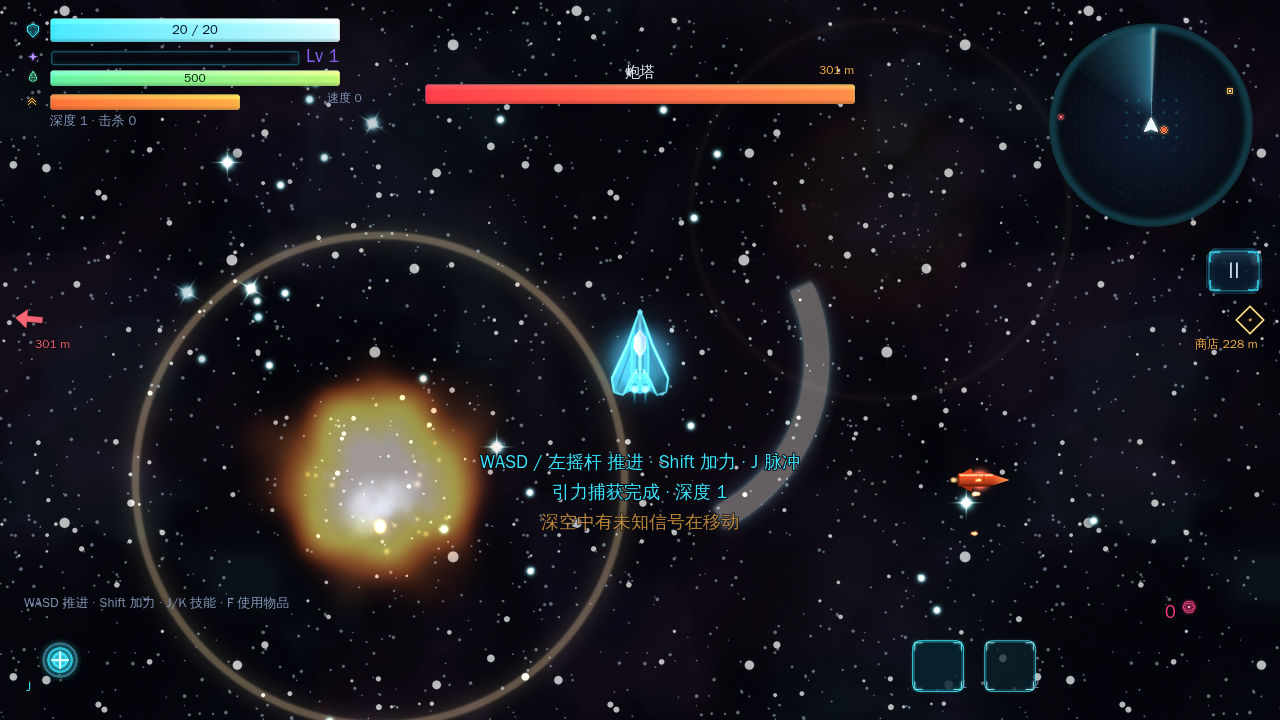
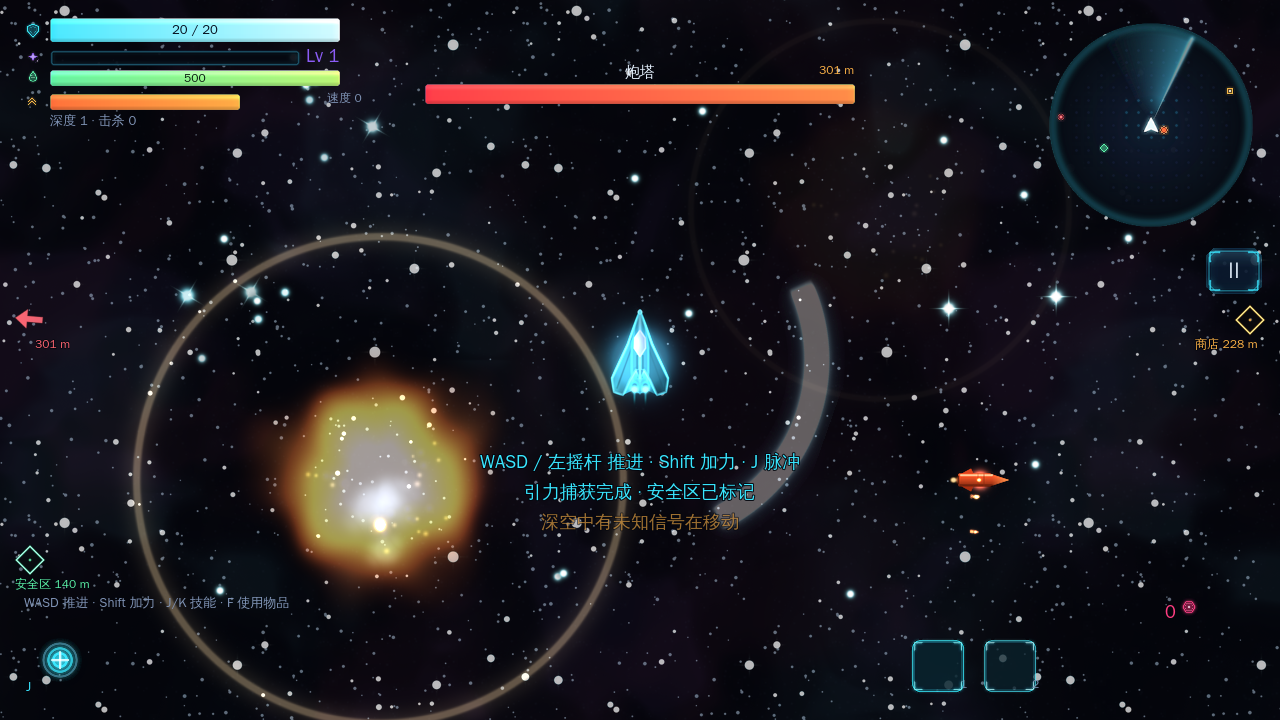
docs(1.0.7): 验证记录、截图与 OpenList 直链

diff --git a/README.md b/README.md
@@ -1,4 +1,4 @@
-# Escape Gravity · 1.0.6 发行版
+# Escape Gravity · 1.0.7 发行版
 
 > 2D 俯视角 · 物理驱动 · 无直接攻击的太空肉鸽
 >
@@ -14,6 +14,12 @@
 - 中文字体：WenQuanYi Zen Hei（随包分发，见许可）
 
 > **仓库状态**：本目录为本地 Git 仓库（`main`，未配置 remote，暂未发布）。`build/`、`dist/`、`keystore/` 与 `.godot/` 不入库；维护、构建与提交约定见 [`AGENTS.md`](AGENTS.md)。
+
+### 1.0.7 更新
+
+- **开局就有第一个安全区**：`_initial_spawn` 现在会在出生点前方生成路线首段的安全区（雷达绿点 + 屏幕边缘绿色方位标记），一进游戏就有明确的补给目的地；不再需要击毁首个攻击者后才解锁。首个安全区与飞船保持 640px 以上（不会一开局就把玩家吸走），并与首个敌人保持完整的 1220px 间距。
+- **安全区刷新不会落在身后**：离开安全区 10 秒后刷新时，如果路线预置点已落在飞船后方 300px 之外、或超出 50 燃料距离（1875px），会在行进方向前方 900~1755px 重新选址。高速冲刺、连续越过几个路段也不会再出现“安全区在身后、雷达上找不到”的情况。
+- **敌人落点让位更稳**：首个敌人先于商店生成，由商店让开敌人；被安全区/商店挤到时沿径向滑出必要距离，而不是让环形搜索把敌人跳到约 900px 外。
 
 ### 1.0.6 更新
 
@@ -65,24 +71,24 @@
 
 | 文件 | 平台 | 大小 | SHA-256 |
 |---|---|---|---|
-| `dist/EscapeGravity-1.0.6-windows-x86_64.zip` | Windows 10/11 x64 | 57.4 MiB | `10eb39e2…bc28f816` |
-| `dist/EscapeGravity-1.0.6-android-arm64.apk` | Android 7.0+ arm64 | 47.3 MiB | `41235128…a54c7637` |
-| `dist/EscapeGravity-1.0.6-linux-x86_64.tar.gz` | Linux x64（附带） | 48.2 MiB | `3a23bba2…030c74e6` |
-| `build/windows/EscapeGravity.exe` | 未压缩的 Windows 单文件 | 125.9 MiB | `f06d8039…ba0eb720` |
-| `build/android/EscapeGravity.apk` | 未重命名的 Android 包 | 47.3 MiB | `41235128…a54c7637` |
+| `dist/EscapeGravity-1.0.7-windows-x86_64.zip` | Windows 10/11 x64 | 57.4 MiB | `33505883…b31fbfde` |
+| `dist/EscapeGravity-1.0.7-android-arm64.apk` | Android 7.0+ arm64 | 47.3 MiB | `e734c5a7…83fb2260` |
+| `dist/EscapeGravity-1.0.7-linux-x86_64.tar.gz` | Linux x64（附带） | 48.2 MiB | `6b8a807b…d34f6e17` |
+| `build/windows/EscapeGravity.exe` | 未压缩的 Windows 单文件 | 125.9 MiB | `9aac34ce…d1f5fb67` |
+| `build/android/EscapeGravity.apk` | 未重命名的 Android 包 | 47.3 MiB | `e734c5a7…83fb2260` |
 | `docs/shots/*.png` | 由**导出包**实际运行的截图 | — | — |
 
 完整校验和：`dist/SHA256SUMS.txt`。
 
-- Android 1.0.6 直链：[EscapeGravity-1.0.6-android-arm64.apk](https://files.thisisxd.top/d/EscapeGravity-1.0.6-android-arm64.apk?v=9)
+- Android 1.0.7 直链：[EscapeGravity-1.0.7-android-arm64.apk](https://files.thisisxd.top/d/EscapeGravity-1.0.7-android-arm64.apk?v=10)
 
-> 下表是本次 1.0.6 重新构建的交付包，`build/` 与 `dist/` 均来自同一次构建。
+> 下表是本次 1.0.7 重新构建的交付包，`build/` 与 `dist/` 均来自同一次构建。
 
 Windows 包为单文件 exe（内嵌 PCK），解压即玩，无需安装。Android 包已用项目自带密钥签名（v2/v3），可直接侧载安装。
 
 本版不再提供 Web 试玩包；正式交付为 Windows / Android 原生构建。
 
-- Android 包名：`com.escapegravity.game`，versionCode 9，versionName 1.0.6
+- Android 包名：`com.escapegravity.game`，versionCode 10，versionName 1.0.7
 - minSdk 24 / targetSdk 36（Godot 4.7 模板），仅 arm64-v8a
 - Windows 构建未做商业代码签名：首次运行可能出现 SmartScreen 提示，选择“仍要运行”即可
 
@@ -114,7 +120,7 @@ Windows 包为单文件 exe（内嵌 PCK），解压即玩，无需安装。Andr
 2. 你打不到炮塔。唯一能伤到它的，是**它自己的导弹**：贴着炮塔绕圈，让导弹的转弯弧线切进外壳；或者用脉冲把导弹沿切线甩进外壳。
 3. 导弹撞上炮塔：**25 点伤害** + 炮塔过载停火 2.5 秒；炮塔血量 50，两发即可摧毁。
 4. 炮塔爆炸后掉落大量**物质**，正常接近会自动吸收并填经验槽。每 **20 XP** 升一级，三选一强化。即使你以高速从物质旁掠过或正在远离，牵引场也会追上并把它吸收，不会再出现物质被甩飞的情况。
-5. 燃料有限，而且**出生点附近没有安全区**——先击毁首个攻击者才会解锁补给。**安全区**会补满燃料、清除导弹与陨石、屏蔽雷达与威胁指示；它刷新时只是一个比飞船略大的小环，飞到中心才扩张成完整的补给圈。即使高速切线掠过、从边缘滑过，安全区也会持续牵引并拖慢你，把你拉回 R280 内停靠，不再会被甩飞；明确朝圈外推进时可以脱离。**商店**用代币换道具；如果跳过商店并连续击毁两个敌人，信标会自动重新定位。地图生成时会沿一条隐藏路线预置它们的位置：安全区在两个敌人之间，商店离路线更远；路线本身不显示给玩家。两个敌人之间的空白路径有时会生成一颗小**加速天体**，可以借它做切线环绕。
+5. 燃料有限，但**开局前方就有一个安全区**（绿色方位标记）；进入后会补满燃料并清除威胁，离开 10 秒后刷新下一个。**安全区**会补满燃料、清除导弹与陨石、屏蔽雷达与威胁指示；它刷新时只是一个比飞船略大的小环，飞到中心才扩张成完整的补给圈。即使高速切线掠过、从边缘滑过，安全区也会持续牵引并拖慢你，把你拉回 R280 内停靠，不再会被甩飞；明确朝圈外推进时可以脱离。**商店**用代币换道具；如果跳过商店并连续击毁两个敌人，信标会自动重新定位。地图生成时会沿一条隐藏路线预置它们的位置：安全区在两个敌人之间，商店离路线更远；路线本身不显示给玩家。两个敌人之间的空白路径有时会生成一颗小**加速天体**，可以借它做切线环绕。
 6. 摧毁一个攻击者后进入 **8 秒安全时间**，随后按路线顺序刷新更强的敌人；深度递增。
 
 护盾只有 **20**，而敌方导弹伤害是 **25**：**挨一发就结束**。陨石只磨损 0.5，但你可以把陨石撞飞，让它对敌人造成 5 点伤害。
@@ -162,10 +168,10 @@ Windows 包为单文件 exe（内嵌 PCK），解压即玩，无需安装。Andr
 | 陨石：10s/颗、R17、110~210 速度、镜头外 900 进入、方向避开炮塔、受天体与飞船引力、0.5 伤害、撞飞后对敌人 5 伤害 | `src/meteor.gd` + `run`；撞飞船不会立刻消失，可继续飞行撞敌人 |
 | 物质：200/星域、吸取 240、小 1 XP / 大 3 XP、每 20 XP 升级；靠近即吸收 | `src/matter.gd`；牵引速度上限 900、4s 牵引锁定、28px 拾取；初始与补充刷在未探索区，总数上限 280 |
 | 护盾 20 / 敌方导弹 25；陨石 0.5 | `src/ship.gd` + `run.hurt_ship` |
-| 出生区：没有安全区，首个攻击者就在路线首段；击毁首个攻击者后解锁补给 | `run._initial_spawn` / `_unlock_safe_after_first_kill`；解锁时跳过出生侧的安全区节点，`route.next_safe=1` |
+| 出生区：开局生成第一个安全区，首个攻击者仍在路线首段 | `run._initial_spawn`：先建安全区，再生成敌人，最后放商店；首个安全区与敌人保持 1220px 间距，离开后 10 秒刷新下一个 |
 | 安全区：进入前 R78 → 进入时扩张到 R280、向心牵引、回满燃料/清导弹/清陨石/隐藏雷达与威胁指示、离开后 10s 刷新 | `src/zone.gd` + `run._zone_checks`；进入瞬间触发半径即为 280；外圈持续 120 px/s² 向心牵引并制动外向/切向速度，高速掠过也会被拉回；进入后 1400 px/s² 停靠，圈内抵消天体引力 |
 | 安全区吸附：高速切线/边缘掠过仍会被拉回停靠 | `run.assist_accel` 在 700px 影响圈内持续向心牵引，并制动外向径向与切向速度；玩家明确朝圈外推进时放开；进圈后由 1400 px/s² 反推停靠 |
-| 安全区刷新在路线预置点 | `RunRoute.safe_at`：每个敌人之间一个；找不到路线时回退 `find_unexplored_point(700, 1875)` |
+| 安全区刷新在路线预置点 | `RunRoute.safe_at`：每个敌人之间一个；预置点在身后 300px 外或超出 1875px 时，改在行进方向前方 900~1755px 重新选址 |
 | 商店：R280、不回燃料、代币交易；绑定创建时的敌人深度 | `run._open_shop` / `buy_offer`；3 件商品，价格按稀有度；位置取路线预置点，离路线比安全区更远 |
 | 商店自动重定位 | 跳过商店并连续击毁所属敌人和下一个敌人（`depth > shop_bound_depth+1`）时，`_maybe_refresh_shop` 在下一个路线商店点重新生成 |
 | 燃料耗尽：仍可惯性/引力移动；屏幕内有安全区则被吸入；否则 12s 后结束 | `run._check_fuel` + `assist_accel` |
@@ -245,7 +251,7 @@ escape-gravity-release/
 │   ├── meteor.gd / matter.gd / zone.gd / decoy.gd / anchor.gd / fx.gd
 │   ├── assets.gd / audio.gd / store.gd / controls.gd
 │   ├── backdrop.gd           # 视差星云/星点
-│   └── selftest.gd           # 136 项无头断言 + 机器人可玩性验证
+│   └── selftest.gd           # 140 项无头断言 + 机器人可玩性验证
 ├── assets/                   # world / ui / audio / fonts
 ├── tools/                    # 素材生成、后期、构建、打包
 ├── docs/                     # ART.md / DESIGN_MAP.md / QA.md / 资产清单 / 截图
@@ -265,17 +271,17 @@ escape-gravity-release/
 
 ## 5. 验证
 
-### 5.1 无头断言（136/136 通过）
+### 5.1 无头断言（140/140 通过）
 
 ```bash
 godot --headless --path . -- --selftest
-# RESULT: 136 checks, 0 failed
+# RESULT: 140 checks, 0 failed
 ```
 
 覆盖：太空无阻力与惯性保持 / 引擎极速 150、加力 3× 与 192、外部上限 720 / 燃料按实际 Δv（滑行免费，到极速后按住推进不耗油）/ 加力槽 6.6s 与推进中回充 / 引力 285·395·3R 截止 /
 辅助装置平衡恒星引力 / 锁定中的导弹仍受引力弯折 /
 导弹 150·0.525·5s 脱锁 / 命中 25 与过载 / 陨石 0.5 与撞飞 5 / 物质 240 与 1·3 XP / 高速远离仍被追上吸收 / 20 XP 升级 /
-安全区 78→280 扩张·补满·清弹·隐藏·10s 刷新 / 高速切线掠过仍被吸入·径向高速仍能停靠 / 商店 3 件且不回燃料·跳过两级后自动重定位 / 出生区无安全区·首杀解锁并跳过出生侧节点 / 物品栏 2→5 与满栏销毁 / 脉冲 10 燃料·200 冲量·5s CD·按移动方向左右偏转 /
+安全区 78→280 扩张·补满·清弹·隐藏·10s 刷新 / 高速切线掠过仍被吸入·径向高速仍能停靠 / 商店 3 件且不回燃料·跳过两级后自动重定位 / 开局安全区·高速越过后刷新仍在可达范围与前方 / 物品栏 2→5 与满栏销毁 / 脉冲 10 燃料·200 冲量·5s CD·按移动方向左右偏转 /
 诱饵抵达脱锁 / 干扰弹偏转 / 燃料 12s 判负 / 复活币 / 路线不回头·商店更远·每段有天体·两个敌人间有安全区·安全区离敌人≥1150 / 空白路径加速天体数量与间距 /
 敌人未发现时不可见、仇恨范围外不开火、靠近后逼近 / 未发现时仍开火且导弹从屏幕外弧线切入·方向偏向敌人·单独上限 2 / 进屏即发现并淡入 /
 起始区域按路线落位 / 敌人按路线顺序刷新 / 120000px 外仍有天体 / 初始燃料 500。
@@ -295,11 +301,11 @@ godot --headless --path . -- --selftest
 
 ### 5.3 导出包验证
 
-> 本次 1.0.6 重新导出了 Linux / Windows / Android 包并重打了 `dist/`，下方验证均针对这批产物。
+> 本次 1.0.7 重新导出了 Linux / Windows / Android 包并重打了 `dist/`，下方验证均针对这批产物。
 
 - Linux 导出包在 `Xvfb + llvmpipe` 下真实运行并重新生成全部 11 张截图（不是编辑器截图），中文字体、脚本、贴图、音频均从 PCK 加载。
 - Windows 产物：`PE32+ executable (GUI), x86-64`，尾部 `GDPC` 内嵌包标记，单文件无外部依赖。
-- Android：`apksigner verify` 通过（v2 + v3 签名）；`aapt2 dump badging` 显示 `com.escapegravity.game`、1.0.6（versionCode 9）、
+- Android：`apksigner verify` 通过（v2 + v3 签名）；`aapt2 dump badging` 显示 `com.escapegravity.game`、1.0.7（versionCode 10）、
   minSdk 24、targetSdk 36、`native-code: arm64-v8a`、landscape、无危险权限；APK 内含全部贴图/字体/音频/脚本。
 
 ### 5.4 界面
@@ -332,7 +338,7 @@ godot --headless --path . -- --selftest
 9. **美术/音频为占位素材**：这是你要求的“先用几何图形”；但已按可替换资产管线实现，后续换图不需要改逻辑。
 10. **Android 仅 arm64**，且没有真机实测（本机无 Android 设备；APK 已做静态与签名验证，Linux 导出包做了真实运行验证）。
 11. 安全区/商店刷新距离、商店重开时间（26s）等文档未给定的细节由本实现确定，见 `DESIGN_MAP.md`。
-12. 1.0.6 的安全区/物质修复不是新增类型：安全区持续牵引并制动外向/切向速度，物质牵引速度高于飞船上限并保留 4 秒锁定；数值集中在 `src/consts.gd`。商店随战线重定位与空白路径加速天体（42% 尝试）是发行版扩展，并有自测覆盖。
+12. 1.0.7 恢复“开局即有安全区”，并给安全区刷新加了可达性回退；1.0.6 的持续牵引/制动物理与物质 4 秒牵引锁定保留，数值集中在 `src/consts.gd`。商店随战线重定位与空白路径加速天体（42% 尝试）是发行版扩展，并有自测覆盖。
 
 ---
 

diff --git a/docs/DESIGN_MAP.md b/docs/DESIGN_MAP.md
@@ -13,7 +13,7 @@
 | 进入区域 → 攻击者出现 → 追踪导弹 → 诱导撞击 → 过载 → 掉落物质 | `spawn_enemy` → `enemy.step` → `missile.step` → `_resolve_collisions` → `damage_enemy` → `kill_enemy` → `scatter_matter_at` |
 | 逐步深入更高威胁星域 | `depth += 1`（每次摧毁攻击者）；血量 `×(1+0.22(depth-1))`、射速 `×max(0.62, 1-0.035(depth-1))`、速度 `×(1+0.02(depth-1))`；每 5 层精英 ×1.6 |
 
-攻击者出生点来自隐藏路线：首个敌人在 1900~2400，之后每段 2100~2700；未被玩家看见前它是隐形的，不显示贴图、不进雷达/方位/血条；玩家进入 2100px 后它以 1.5× 速度逼近，外壳进入屏幕的同一帧才算 `discovered`。未发现的敌人仍会开火：导弹在屏幕边缘外 180~320px 生成，以切线初速绕弧切入，射入方向 72% 落在敌人方位 ±57° 内，其余全随机；这类偷袭弹单独上限 2 枚，不占正常 3 枚直射名额。安全区、商店与敌人都按同一条路线预生成，因此 HUD 方位标记天然沿行进方向排列；路线本身不渲染。**出生点没有安全区**：开局只有敌人，击毁首个攻击者后 `safe_unlocked` 才变为 true，并跳过出生侧的安全区节点；路线每段仍保证一个天体锚点，其中一部分会直接落在两个敌人之间的空白路径上。安全区预置在相邻两段敌人的中点（首段落在路线前段），横向偏移 470~600px，圆心离两侧敌人预置点 ≥1150px，保证安全区完整半径（280）与炮塔外壳（420）之间至少 450px；安全区出生时贴图只有 R78，玩家到中心才扩张；间距校验始终使用 `clearance_radius()`（完整 280），刷新时还会按 520px 的贴图间距避开正在交战的敌人。安全区在外圈持续牵引并制动外向/切向速度，高速掠过也会被拉回停靠，详见 §8。
+攻击者出生点来自隐藏路线：首个敌人在 1900~2400，之后每段 2100~2700；未被玩家看见前它是隐形的，不显示贴图、不进雷达/方位/血条；玩家进入 2100px 后它以 1.5× 速度逼近，外壳进入屏幕的同一帧才算 `discovered`。未发现的敌人仍会开火：导弹在屏幕边缘外 180~320px 生成，以切线初速绕弧切入，射入方向 72% 落在敌人方位 ±57° 内，其余全随机；这类偷袭弹单独上限 2 枚，不占正常 3 枚直射名额。安全区、商店与敌人都按同一条路线预生成，因此 HUD 方位标记天然沿行进方向排列；路线本身不渲染。**开局即生成第一个安全区**：`_initial_spawn` 消费路线首段安全点，把它放在出生点前方约 830~1000px；首个敌人照旧在路线首段，安全区与首个敌人保持 1220px 间距；离开安全区后仍按 10s 刷新，预置点落到身后 300px 外或超出 1875px 时改在行进方向前方 900~1755px 重新选址；路线每段仍保证一个天体锚点，其中一部分会直接落在两个敌人之间的空白路径上。安全区预置在相邻两段敌人的中点（首段落在路线前段），横向偏移 470~600px，圆心离两侧敌人预置点 ≥1150px，保证安全区完整半径（280）与炮塔外壳（420）之间至少 450px（刷新校验要求 1220，差额由 `_next_enemy_position` 沿径向滑出）；安全区出生时贴图只有 R78，玩家到中心才扩张；间距校验始终使用 `clearance_radius()`（完整 280），刷新时还会按 520px 的贴图间距避开正在交战的敌人。安全区在外圈持续牵引并制动外向/切向速度，高速掠过也会被拉回停靠，详见 §8。
 
 ## 2. 操作与物理
 
@@ -98,10 +98,10 @@
 | 项 | 文档 | 实现 |
 |---|---|---|
 | 安全区半径/牵引 | 280 / 120 px/s² | `zone.gd`：出生时触发半径 `ZONE_ENTRY_RADIUS=78`（只比飞船略大），玩家到中心时 `set_entered` 同一帧把 `radius` 设为 280，并用 0.62s 的 BACK 缓动 + 冲击波贴图播放扩张；`assist_accel` 在 700px 影响圈内持续向心牵引，并制动外向径向与切向速度；安全区内 `gravity_ship_at` 返回零，避免 3R 天体引力把握停的飞船拖出去 |
-| 出生区 | 文档未给；扩展 | `_initial_spawn` 不生成安全区，`safe_unlocked=false`；击毁首个攻击者后 `_unlock_safe_after_first_kill` 解锁并把 `route.next_safe=1`，跳过出生侧节点 |
+| 出生区 | 文档未给；扩展 | `_initial_spawn` 生成路线首段安全区并消费 `next_safe`（离飞船 ≥640px，必要时在 950/1430/1910px 环上重选），随后生成首个敌人、最后放商店；开局即可用补给，无需首杀解锁 |
 | 进入 | 圈 → 展开、回满燃料、导弹/陨石消失、敌人停火退出、屏蔽信息 | `_enter_safe`；扩张瞬间即视为进入，玩家不会在动画期间飞出去；敌人间距与燃料判定用 `clearance_radius()`（完整 280） |
 | 离开 | 消失，10s 后刷新下一个 | `_leave_safe`；`safe_respawn_timer=10` |
-| 刷新位置 | 路线预置点；每个敌人之间一个；刷新带 ≈1875px（约 12.5s 满推力预算） | `RunRoute.safe_at`（首段 0.35、之后 0.50；侧偏 470~600px）；路线缺失时才回退 `find_unexplored_point(700,1875)` |
+| 刷新位置 | 路线预置点；每个敌人之间一个；刷新带 ≈1875px（约 12.5s 满推力预算） | `RunRoute.safe_at`（首段 0.35、之后 0.50；侧偏 470~600px）；预置点落后 300px 以上或超出 1875px 时，在行进方向前方 900~1755px 重新选址；路线缺失时才回退随机未探索点 |
 | 商店 | R280、不回燃料、代币交易；离路线比安全区更远 | `RunRoute.shop_at`（段内 0.72、侧偏 1200~1600px）；3 件商品，按稀有度 2~5 代币；离开后 26s 刷新；创建时记录 `shop_bound_depth` |
 | 商店自动重定位 | 文档未给；扩展 | 如果未使用商店且 `depth > shop_bound_depth + 1`（击毁所属敌人和下一个敌人），`_maybe_refresh_shop` 移除旧信标并在下一个路线商店点重新生成 |
 | 燃料耗尽 | 仍可惯性/引力；屏幕内有安全区被吸入；否则结束 | `_check_fuel`：无安全区在屏内且无燃料道具时 12s 结束；`assist_accel` 把无动力飞船拉向安全区 |
@@ -157,7 +157,7 @@
 | 精英 | 每 5 层，血量 ×1.6、齐射 +1 | 深度推进的可见威胁升级 |
 | 商店重开 | 离开后 26s 取路线上的下一个商店点 | 文档只给初始距离；路线保证商店比安全区更远，形成可持续经济 |
 | 商店绑定战线 | 未使用的商店在跨过所属敌人 + 下一个敌人后自动重定位 | 玩家高速推进时不会把商店永远落在身后；使用过的商店仍按 26s 计时 |
-| 出生区敌对 | 初始不生成安全区，首杀才解锁 | 让开局直接进入“敌人—导弹—诱导”的核心循环，而不是先给一个安全屋 |
+| 开局安全区 | 文档只要求安全区补给，未规定首个何时出现 | 1.0.6 把补给锁到首杀后 10 秒，玩家反馈“打到第二个敌人还没找到安全区”；1.0.7 恢复开局生成，并让刷新落点始终在可达范围与行进方向前方 |
 | 物质可靠吸收 | 牵引速度高于飞船上限并加锁定 | 修复“靠近后被甩飞”的体验：高速侧掠/远离也能追上吸收，不新增随机类型 |
 | 安全区可靠吸附 | 持续牵引 + 外向/切向制动 | 修复“被安全区甩飞”的体验：外圈也制动并拉回，明确朝外推进仍可脱离 |
 | 空白路径天体 | 42% 尝试把该段锚点放进两个敌人之间的空白路径 | 让玩家在赶路时有可用的切线加速天体；冲突时仍回退到侧方锚点，保证每段有天体 |

diff --git a/AGENTS.md b/AGENTS.md
@@ -6,7 +6,7 @@
 
 《Escape Gravity》是一款 2D 俯视角、物理驱动、**没有直接攻击**的太空肉鸽。玩家只能推进、加力、释放技能，靠诱导敌人自己的追踪导弹撞上敌人来造成伤害。
 
-- 当前版本：**1.0.6**
+- 当前版本：**1.0.7**
 - 引擎：**Godot 4.7.2 stable**，GL Compatibility 渲染器
 - 逻辑分辨率：**1280×720**，`canvas_items` 拉伸 + `expand` 适配宽屏/刘海屏
 - 目标平台：**Windows x86_64**、**Android arm64-v8a（横屏）**
@@ -88,14 +88,14 @@ escape-gravity-release/
 
 ## 关键玩法不变量
 
-这些行为是 1.0.6 物理/生成修复后的基线，别无意改回去：
+这些行为是 1.0.7 开局安全区与 1.0.6 物理/生成修复后的基线，别无意改回去：
 
 - **导弹入场**：敌人在视野内时，从炮塔最近的三炮口之一 / 导弹巢前向口、`R+14` 处出膛；被发现的敌人在视野外仍按设计文档从玩家侧向 **820px** 进入。锁定期导弹不与来源敌人碰撞，避免刚出膛自爆。
 - **导弹引力**：锁定中与脱锁后都持续受天体引力（`MISSILE_GRAVITY_SCALE=0.6`）；引力强于转向能力时会把导弹拉离拦截线。只有玩家的辅助装置会平衡恒星引力，别把导弹也豁免。
 - **敌人刷新与发现**：按 `RunRoute` 预生成顺序取点（首段 1900~2400，之后 2100~2700）；两个敌人位置之间必有一个安全区，商店比安全区离路线更远。路线只用于布局、不渲染；不要改回随机方向刷新。敌人未进入玩家屏幕前不可见、不进雷达/方位/血条；玩家进入 `ENEMY_AGGRO_RANGE=2100` 后以 `1.5×` 速度逼近，贴图进入屏幕的同一帧才算 `discovered`。
 - **未发现也会开火**：`enemy._fire_hidden` 在屏幕边缘外 180~320px 生成偷袭弹，切线初速让它绕弧切入；72% 的方向落在敌人方位 ±57° 内，其余全随机。偷袭弹 `sneak=true`，单独上限 `ENEMY_HIDDEN_MAX=2`，且**不占**正常 3 枚直射名额。别用 `locked_missile_count()` 把它们算进去，否则会挤掉正面齐射、破坏诱导循环。
-- **出生区是敌对区**：`_initial_spawn` 不再生成安全区，`safe_unlocked=false`；击毁首个攻击者后 `_unlock_safe_after_first_kill` 才解锁，并把 `route.next_safe` 直接推到 1，跳过出生点旁的安全区节点。别把初始安全区加回来，也别在未解锁时让 `_update_spawns` 刷新安全区。
-- **安全区与敌人保持间距**：安全区预置在相邻两段敌人的中点（`SAFE_T=0.50`，首段 `SAFE_FIRST_T=0.35`），横向偏移 470~600，圆心离两侧敌人预置点 ≥1150；刷新时 `_clear_zone_of_enemies` 会按 `ZONE_ENEMY_CLEAR=520` 推开正在交战的敌人，敌人刷新校验同一间距。别再把安全区挪回贴着上一场战斗的位置。安全区出生时只有 `ZONE_ENTRY_RADIUS=78`，但所有间距/引力/燃料判定都用 `clearance_radius()`（恒为完整 280）；玩家到中心才扩张，扩张同一帧把 `radius` 设为 280，动画只影响外观。只有安全区内 `gravity_ship_at` 返回零（station-keeping），否则 3R 引力圈会把握停的飞船拖出去。
+- **开局即有安全区**：`_initial_spawn` 先生成路线首段安全区（`route.safe_at(0)`，并消费掉 `next_safe`），再生成首个敌人，最后放商店；安全区不再需要首杀解锁；`_opening_safe_point` 保证它离飞船 ≥640px（避开辅助牵引圈），避免被天体挤到飞船身上。玩家反馈“打到第二个敌人都没找到安全区”，起因是 1.0.6 把补给锁到首杀后 10 秒、且刷新仍用路线预置点，冲刺时会落在身后。`_spawn_safe_respawn` 现在会拒绝落在飞船后方 300px 以外或超出 `SAFE_FUEL_DIST=1875` 的预置点，改为在行进方向前方 900~1755px 选址。别再把安全区锁回首杀之后。
+- **安全区与敌人保持间距**：安全区预置在相邻两段敌人的中点（`SAFE_T=0.50`，首段 `SAFE_FIRST_T=0.35`），横向偏移 470~600，圆心离两侧敌人预置点 ≥1150；刷新时 `_clear_zone_of_enemies` 会按 `ZONE_ENEMY_CLEAR=520` 推开正在交战的敌人，敌人刷新校验同一间距（1220），差额沿安全区/商店径向滑出，不要退回 900px 的环形跳点。别再把安全区挪回贴着上一场战斗的位置。安全区出生时只有 `ZONE_ENTRY_RADIUS=78`，但所有间距/引力/燃料判定都用 `clearance_radius()`（恒为完整 280）；玩家到中心才扩张，扩张同一帧把 `radius` 设为 280，动画只影响外观。只有安全区内 `gravity_ship_at` 返回零（station-keeping），否则 3R 引力圈会把握停的飞船拖出去。
 - **安全区必须可靠吸入**：`assist_accel` 在 `clearance_radius()+420`（700px）影响圈内**持续**施加 `ZONE_GRAVITY=120` 向心牵引，不再只在无输入时生效；同时制动向外的径向速度（`SHIP_SAFE_BRAKE=1400`）和切向速度。高速切线/边缘掠过也会被拖慢并拉回 R280 内停靠，不能把玩家甩飞；玩家明确朝圈外推进（输入点积 < -0.35）时仍可脱离。进圈后仍由 1400 px/s² 反推停靠。
 - **物质必须可靠吸收**：`MATTER_ABSORB=240`，牵引加速度 400~1400，牵引速度上限 `MATTER_TRACTOR_SPEED=900`（高于飞船外部上限 720），并有 `MATTER_TRACTOR_LOCK=4s` 的牵引锁定，28px 内拾取。即使玩家高速侧掠或正在远离，物质也会追上并被吸收，不能出现“靠近后被甩飞”的行为。
 - **商店绑定敌人深度**：创建商店时记录 `shop_bound_depth=depth`。如果玩家没有使用商店、并且击毁了所属敌人和下一个敌人（`depth > shop_bound_depth + 1`），`_maybe_refresh_shop` 会移除旧信标并在下一个路线商店点重新生成；使用商店离开后仍按 `SHOP_RESPAWN=26` 计时。别让被跳过的商店永远留在身后。
@@ -150,7 +150,7 @@ python3 tools/make_dist.py
 
 改动运行逻辑后，至少完成：
 
-1. `RESULT: 136 checks, 0 failed`；导出包内再跑一次 `./build/linux/EscapeGravity.x86_64 --headless -- --selftest`。
+1. `RESULT: 140 checks, 0 failed`；导出包内再跑一次 `./build/linux/EscapeGravity.x86_64 --headless -- --selftest`。
 2. 用导出包重新生成截图；桌面 11 张 + 移动端 20:9 一张，检查标题居中、触屏按钮不重叠。
 3. 无运行时绘制审计（应只有 `RenderingServer.frame_post_draw` 一条命中）：
    ```bash
@@ -176,7 +176,7 @@ python3 tools/make_dist.py
 - 提交信息用中文或英文均可，建议 `type(scope): subject`，例如：
   - `fix(mobile): 技能键移到右侧并放大`
   - `fix(world): 背景改为相机锚定`
-  - `docs: 更新 1.0.6 验证记录`
+  - `docs: 更新 1.0.7 验证记录`
 - 一个提交只做一类改动；不要把一个功能、格式化、文档混在一起。
 - 提交前检查：
   ```bash

diff --git a/docs/QA.md b/docs/QA.md
@@ -1,6 +1,6 @@
 # QA / 验证记录
 
-日期：2026-11-04 · 版本：1.0.6 · 引擎：Godot 4.7.2 stable
+日期：2026-11-04 · 版本：1.0.7 · 引擎：Godot 4.7.2 stable
 环境：Linux x86_64 · Godot headless + Xvfb/llvmpipe · JDK 17 (Temurin 17.0.21) · Android SDK build-tools 35 / platform 35
 
 ---
@@ -11,17 +11,17 @@
 godot --headless --path . -- --selftest
 ```
 
-完整输出：`docs/selftest_output.txt`（136 项断言 + 机器人明细）。
+完整输出：`docs/selftest_output.txt`（140 项断言 + 机器人明细）。
 
 ```
-RESULT: 136 checks, 0 failed
+RESULT: 140 checks, 0 failed
 ```
 
 **导出包内自测**（同一套脚本，从内嵌 PCK 运行）：
 
 ```bash
 ./build/linux/EscapeGravity.x86_64 --headless -- --selftest
-# RESULT: 136 checks, 0 failed
+# RESULT: 140 checks, 0 failed
 ```
 
 覆盖面：
@@ -34,7 +34,7 @@ RESULT: 136 checks, 0 failed
 - 陨石：0.5 磨损、撞飞后对敌 5、受飞船引力
 - 物质：大 3 XP、超 240 不吸、150 内被吸、高速远离仍被追上吸收、20 XP/级
 - 区域：安全区进入前 R78、扩张瞬间 R280（贴图仍在缩小状态）、补满/清弹/隐藏/离开 10s 刷新；高速切线掠过仍被吸入停靠、径向高速进入也能停靠；商店 3 件且不回燃料
-- 出生区：开局无安全区、首个敌人已生成；击毁首个敌人后解锁并跳过出生侧安全区节点
+- 出生区：开局生成第一个安全区（12 个种子均离飞船 ≥640px、与首个敌人保持 1220px 间距）；首个敌人与商店按路线生成；高速越过预置点后 10s 刷新落在前方 900~1755px、不超过 1875px
 - 商店绑定：所属敌人被击败后不立即刷新；连续击毁下一个敌人后自动重定位并绑定新深度
 - 发现：敌人未进屏前不可见、不进雷达/方位/血条、仇恨范围外不开火；玩家进入 2100px 后主动逼近并持续开火；未发现时导弹从屏幕外生成、以切线弧线切入、方向 72% 偏向敌人 ±57°，偷袭弹单独上限 2 且不占直射名额；进屏同一帧 `discovered` 并淡入
 - 物品/升级：2 格、满栏销毁、5 格上限后无栏位卡、技能满后无新技能卡
@@ -65,7 +65,7 @@ RESULT: 136 checks, 0 failed
 
 ## 2. 导出包验证
 
-> 本次 1.0.6 重新导出并验证了 Linux / Windows / Android 三个包，`dist/` 同步重打，交付物表与 SHA256SUMS 均为本批产物。
+> 本次 1.0.7 重新导出并验证了 Linux / Windows / Android 三个包，`dist/` 同步重打，交付物表与 SHA256SUMS 均为本批产物。
 
 ### 2.1 Linux（验证打包完整性）
 
@@ -76,7 +76,7 @@ xvfb-run -a -s "-screen 0 1280x720x24" \
 
 - 退出码 0；11 张截图全部生成（**由导出包运行产生，不是编辑器**），已复制到 `docs/shots/`。
 - 标题、中文字体、贴图、音频、脚本均从内嵌 PCK 加载；无缺失贴图警告。
-- `build/linux/EscapeGravity.x86_64` = 96,353,296 bytes，ELF x86-64。
+- `build/linux/EscapeGravity.x86_64` = 96,355,616 bytes，ELF x86-64。
 - 触屏 20:9 截图另用 `--resolution 2400x1080 -- --touch --shots=...` 生成，取 `04_battle` 作为 `docs/shots/12_touch.png`。
 
 ### 2.2 Windows
@@ -87,7 +87,7 @@ file build/windows/EscapeGravity.exe
 python3 -c "d=open(...).read(); print(b'GDPC' in d[-4096:])"   # True
 ```
 
-- 单文件、内嵌 PCK，无外部依赖；132,037,344 bytes。
+- 单文件、内嵌 PCK，无外部依赖；132,039,664 bytes。
 - 未做商业代码签名（没有证书），首次运行会有 SmartScreen 提示。
 
 ### 2.3 Android
@@ -98,7 +98,7 @@ apksigner verify --verbose --print-certs build/android/EscapeGravity.apk
 ```
 
 ```
-package: name='com.escapegravity.game' versionCode='9' versionName='1.0.6'
+package: name='com.escapegravity.game' versionCode='10' versionName='1.0.7'
 minSdkVersion:'24'
 targetSdkVersion:'36'
 native-code: 'arm64-v8a'
@@ -111,16 +111,16 @@ Signer #1 certificate DN: CN=Escape Gravity, OU=Games, O=Escape Gravity, L=Shang
 Signer #1 certificate SHA-256: ddd8a610132d862301c8987f18f545a6eefdf58f0617547d7fad3cec0113f5ff
 ```
 
-- APK：49,562,872 bytes；含全部 `assets/`（贴图、字体、WAV、脚本 `.gdc`、场景）。
+- APK：49,566,968 bytes；含全部 `assets/`（贴图、字体、WAV、脚本 `.gdc`、场景）。
 - 权限：无危险权限（只有 Godot/模板默认项）。
 - 未在真机运行（本机无 Android 设备）；静态检查 + 签名验证通过，Linux 导出包已验证同一 PCK 的运行时行为。
 
 ### 2.4 OpenList 分发
 
-- 已上传 `dist/EscapeGravity-1.0.6-android-arm64.apk` 到 NAS 的 `/vol1/1000/MyFiles/Public/`。
-- 远端大小 49,562,872 bytes、SHA-256 `41235128…a54c7637`，与本地一致。
-- 直链 HEAD 返回 `200 application/vnd.android.package-archive`，`content-length=49562872`：
-  <https://files.thisisxd.top/d/EscapeGravity-1.0.6-android-arm64.apk?v=9>
+- 已上传 `dist/EscapeGravity-1.0.7-android-arm64.apk` 到 NAS 的 `/vol1/1000/MyFiles/Public/`。
+- 远端大小 49,566,968 bytes、SHA-256 `e734c5a7…83fb2260`，与本地一致。
+- 直链 HEAD 返回 `200 application/vnd.android.package-archive`，`content-length=49566968`：
+  <https://files.thisisxd.top/d/EscapeGravity-1.0.7-android-arm64.apk?v=10>
 
 ---
 
